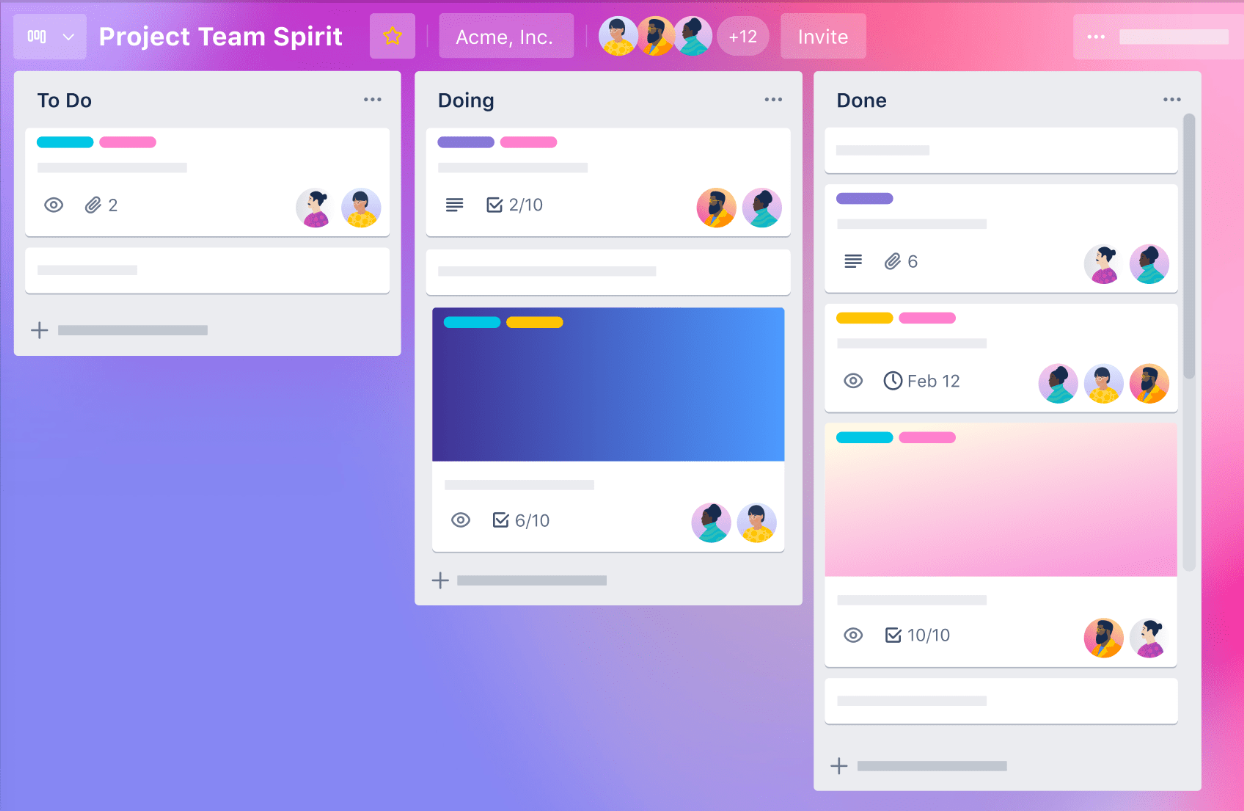
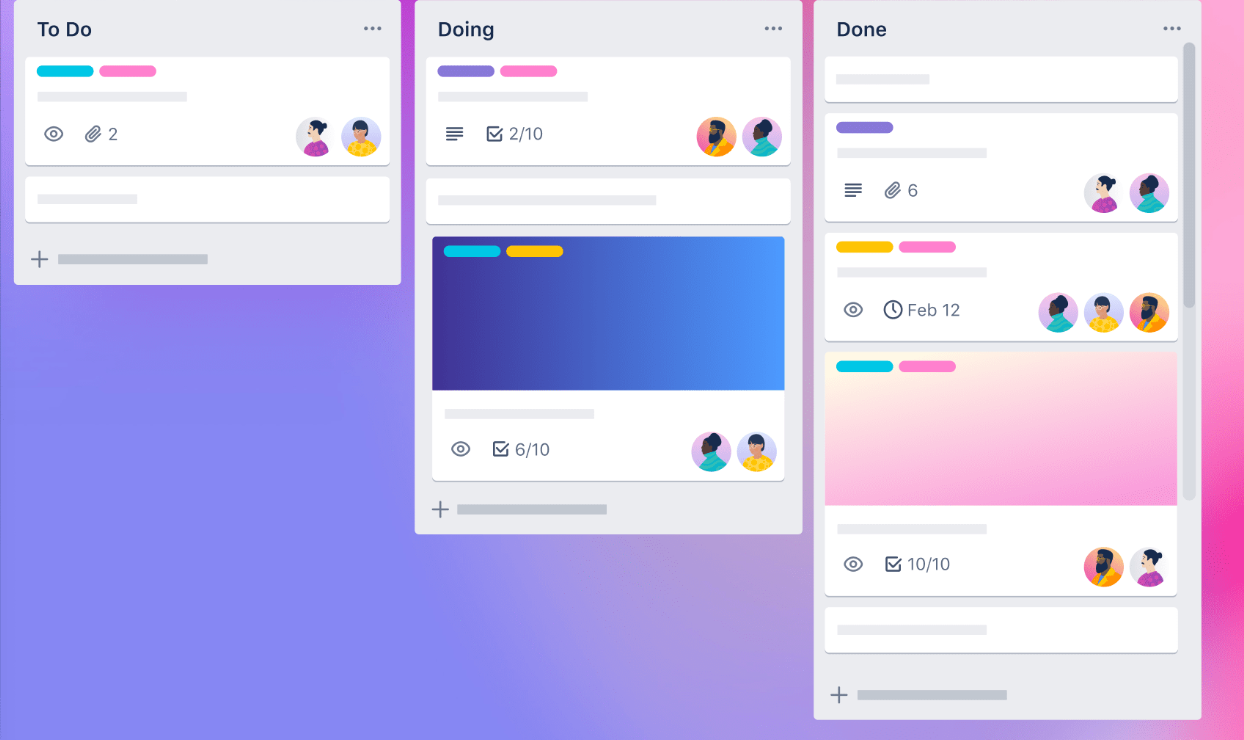
update shame

diff --git a/src/styles/shame.scss b/src/styles/shame.scss
@@ -2,7 +2,8 @@
   background-image: url('../assets/images/shame.png');
   background-repeat: no-repeat;
   background-size: contain;
-  width: 100%;
-  height: 100%;
+  width: 95%;
+  height: 90%;
   background-position: center;
+  margin: 1em;
 }
